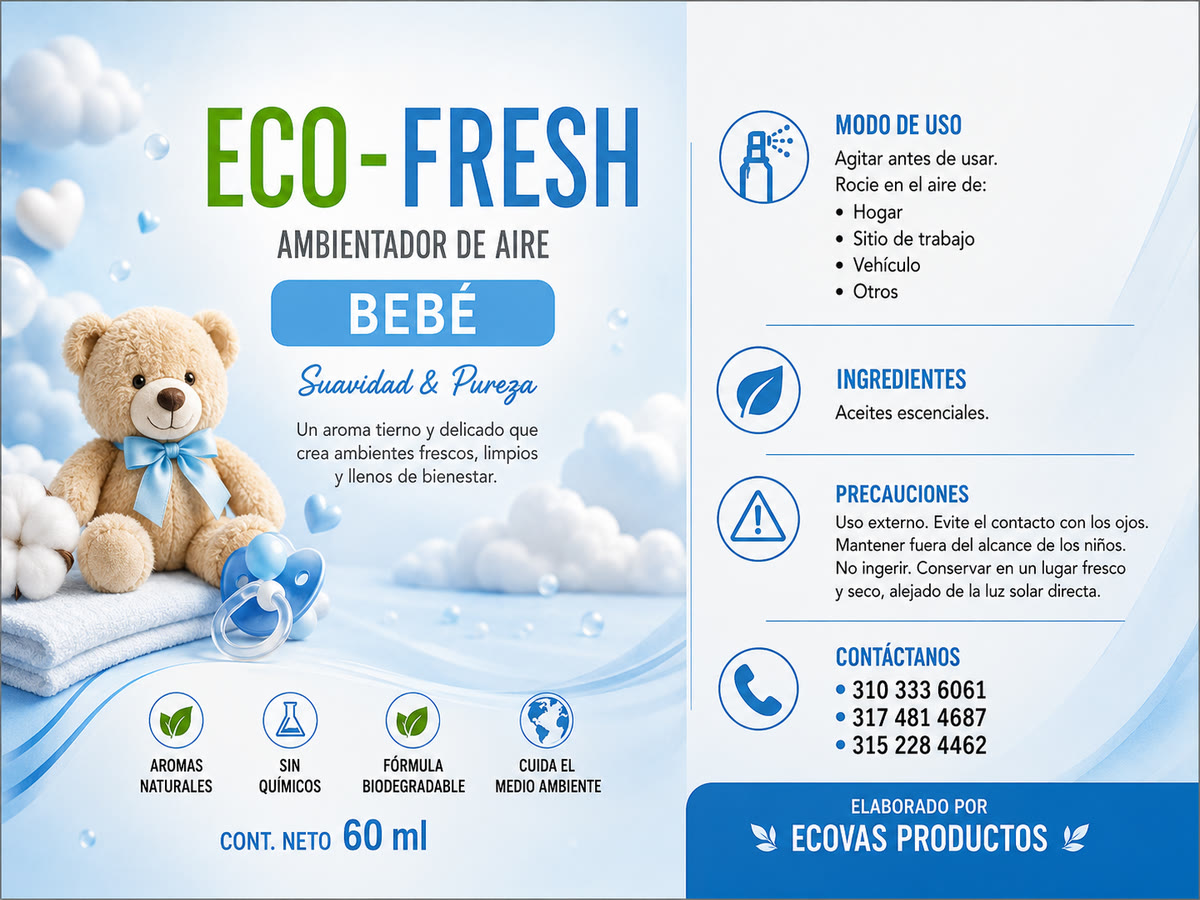
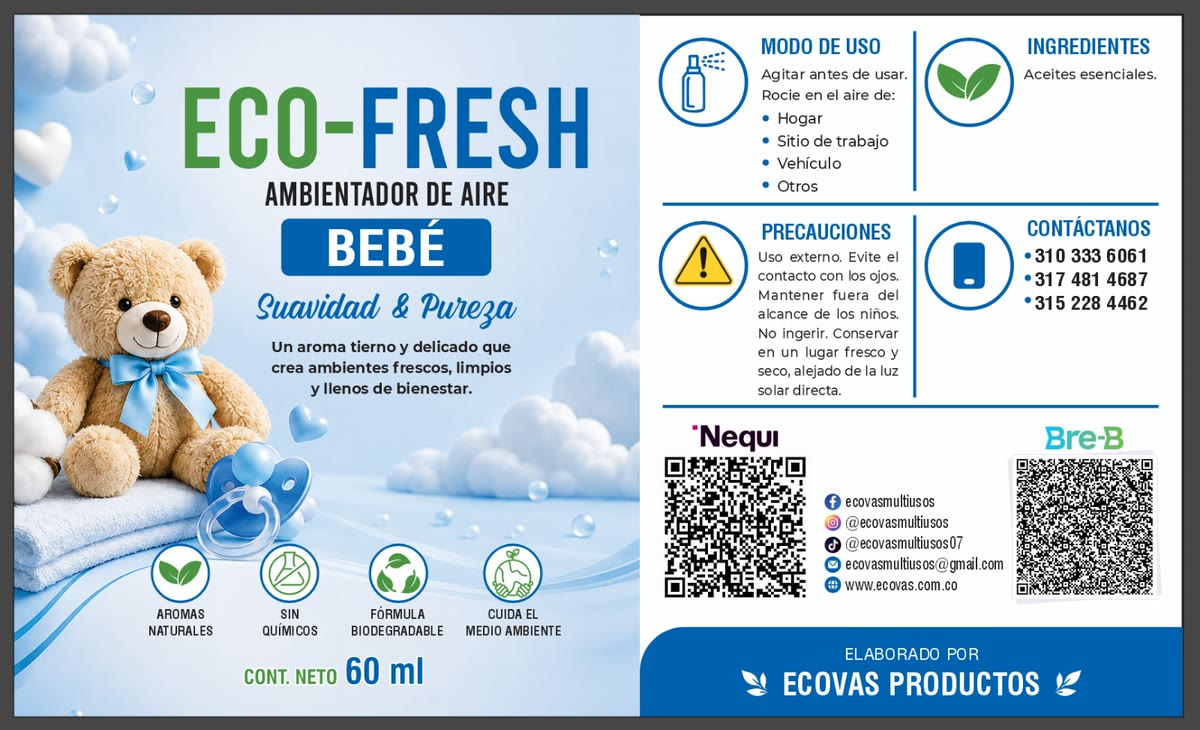
Reemplazar las 6 tarjetas de EcoFresh Ambientadores
Usa la etiqueta completa de cada fragancia (Maracuya, Bebe, Vainilla,
Chicle, Bambu, Canela) en el mismo orden existente, y ajusta el
contenedor de estas tarjetas a su proporcion real (1200/729) para que
no se recorte nada. Cambio scopeado a #cat-ambientadores, sin afectar
otras tarjetas o secciones.

diff --git a/index.html b/index.html
@@ -822,7 +822,7 @@
     <div class="product-grid">
         <article class="cat-card" data-product="ECOVAS Ambientadores — EcoFresh Maracuyá 60 ml" data-sku="AM-MAR" data-price="">
           <div class="cat-card__media cat-card__media--landscape">
-            <img class="cat-card__img" src="assets/img/cat-ambientadores-maracuya.jpg" alt="EcoFresh Maracuyá 60 ml — Energía Tropical" width="1200" height="900" loading="lazy" decoding="async">
+            <img class="cat-card__img" src="assets/img/cat-ambientadores-maracuya.jpg?v=2" alt="EcoFresh Maracuyá 60 ml — Energía Tropical" width="1200" height="726" loading="lazy" decoding="async">
             <span class="cat-card__tag" hidden></span>
           </div>
           <div class="cat-card__body">
@@ -848,7 +848,7 @@
         </article>
         <article class="cat-card" data-product="ECOVAS Ambientadores — EcoFresh Bebé 60 ml" data-sku="AM-BEB" data-price="">
           <div class="cat-card__media cat-card__media--landscape">
-            <img class="cat-card__img" src="assets/img/cat-ambientadores-bebe.jpg" alt="EcoFresh Bebé 60 ml — Suavidad y Pureza" width="1200" height="900" loading="lazy" decoding="async">
+            <img class="cat-card__img" src="assets/img/cat-ambientadores-bebe.jpg?v=2" alt="EcoFresh Bebé 60 ml — Suavidad y Pureza" width="1200" height="730" loading="lazy" decoding="async">
             <span class="cat-card__tag" hidden></span>
           </div>
           <div class="cat-card__body">
@@ -874,7 +874,7 @@
         </article>
         <article class="cat-card" data-product="ECOVAS Ambientadores — EcoFresh Vainilla 60 ml" data-sku="AM-VAI" data-price="">
           <div class="cat-card__media cat-card__media--landscape">
-            <img class="cat-card__img" src="assets/img/cat-ambientadores-vainilla.jpg" alt="EcoFresh Vainilla 60 ml — Elegancia Cálida" width="1200" height="900" loading="lazy" decoding="async">
+            <img class="cat-card__img" src="assets/img/cat-ambientadores-vainilla.jpg?v=2" alt="EcoFresh Vainilla 60 ml — Elegancia Cálida" width="1200" height="732" loading="lazy" decoding="async">
             <span class="cat-card__tag" hidden></span>
           </div>
           <div class="cat-card__body">
@@ -900,7 +900,7 @@
         </article>
         <article class="cat-card" data-product="ECOVAS Ambientadores — EcoFresh Chicle 60 ml" data-sku="AM-CHI" data-price="">
           <div class="cat-card__media cat-card__media--landscape">
-            <img class="cat-card__img" src="assets/img/cat-ambientadores-chicle.jpg" alt="EcoFresh Chicle 60 ml — Dulce y Divertido" width="1200" height="900" loading="lazy" decoding="async">
+            <img class="cat-card__img" src="assets/img/cat-ambientadores-chicle.jpg?v=2" alt="EcoFresh Chicle 60 ml — Dulce y Divertido" width="1200" height="732" loading="lazy" decoding="async">
             <span class="cat-card__tag" hidden></span>
           </div>
           <div class="cat-card__body">
@@ -926,7 +926,7 @@
         </article>
         <article class="cat-card" data-product="ECOVAS Ambientadores — EcoFresh Bambú 60 ml" data-sku="AM-BAM" data-price="">
           <div class="cat-card__media cat-card__media--landscape">
-            <img class="cat-card__img" src="assets/img/cat-ambientadores-bambu.jpg" alt="EcoFresh Bambú 60 ml — Frescura Natural" width="1200" height="900" loading="lazy" decoding="async">
+            <img class="cat-card__img" src="assets/img/cat-ambientadores-bambu.jpg?v=2" alt="EcoFresh Bambú 60 ml — Frescura Natural" width="1200" height="728" loading="lazy" decoding="async">
             <span class="cat-card__tag" hidden></span>
           </div>
           <div class="cat-card__body">
@@ -952,7 +952,7 @@
         </article>
         <article class="cat-card" data-product="ECOVAS Ambientadores — EcoFresh Canela 60 ml" data-sku="AM-CAN" data-price="">
           <div class="cat-card__media cat-card__media--landscape">
-            <img class="cat-card__img" src="assets/img/cat-ambientadores-canela.jpg" alt="EcoFresh Canela 60 ml — Calidez que Envuelve" width="1200" height="900" loading="lazy" decoding="async">
+            <img class="cat-card__img" src="assets/img/cat-ambientadores-canela.jpg?v=2" alt="EcoFresh Canela 60 ml — Calidez que Envuelve" width="1200" height="730" loading="lazy" decoding="async">
             <span class="cat-card__tag" hidden></span>
           </div>
           <div class="cat-card__body">

diff --git a/assets/css/style.css b/assets/css/style.css
@@ -432,6 +432,11 @@ h1,h2,h3,h4{font-family:var(--font-head);font-weight:700;line-height:1.2;color:v
 .cat-card__media--portrait{aspect-ratio:2/3;}
 /* Variante horizontal (4:3) para etiquetas/fichas de producto, ej. fragancias EcoFresh */
 .cat-card__media--landscape{aspect-ratio:4/3;}
+/* Las 6 tarjetas de EcoFresh Ambientadores usan la etiqueta completa del
+   producto (arte + info), proporcion real ~1200x729 (no 4:3) — override
+   scopeado para que llenen la caja sin letterbox, mismo patron que el
+   banner de esta misma seccion. */
+#cat-ambientadores .cat-card__media--landscape{aspect-ratio:1200/729;}
 .cat-card__img{width:100%;height:100%;object-fit:contain;display:block;transition:transform .4s ease;}
 .cat-card:hover .cat-card__img{transform:scale(1.04);}
 .cat-card__tag{
